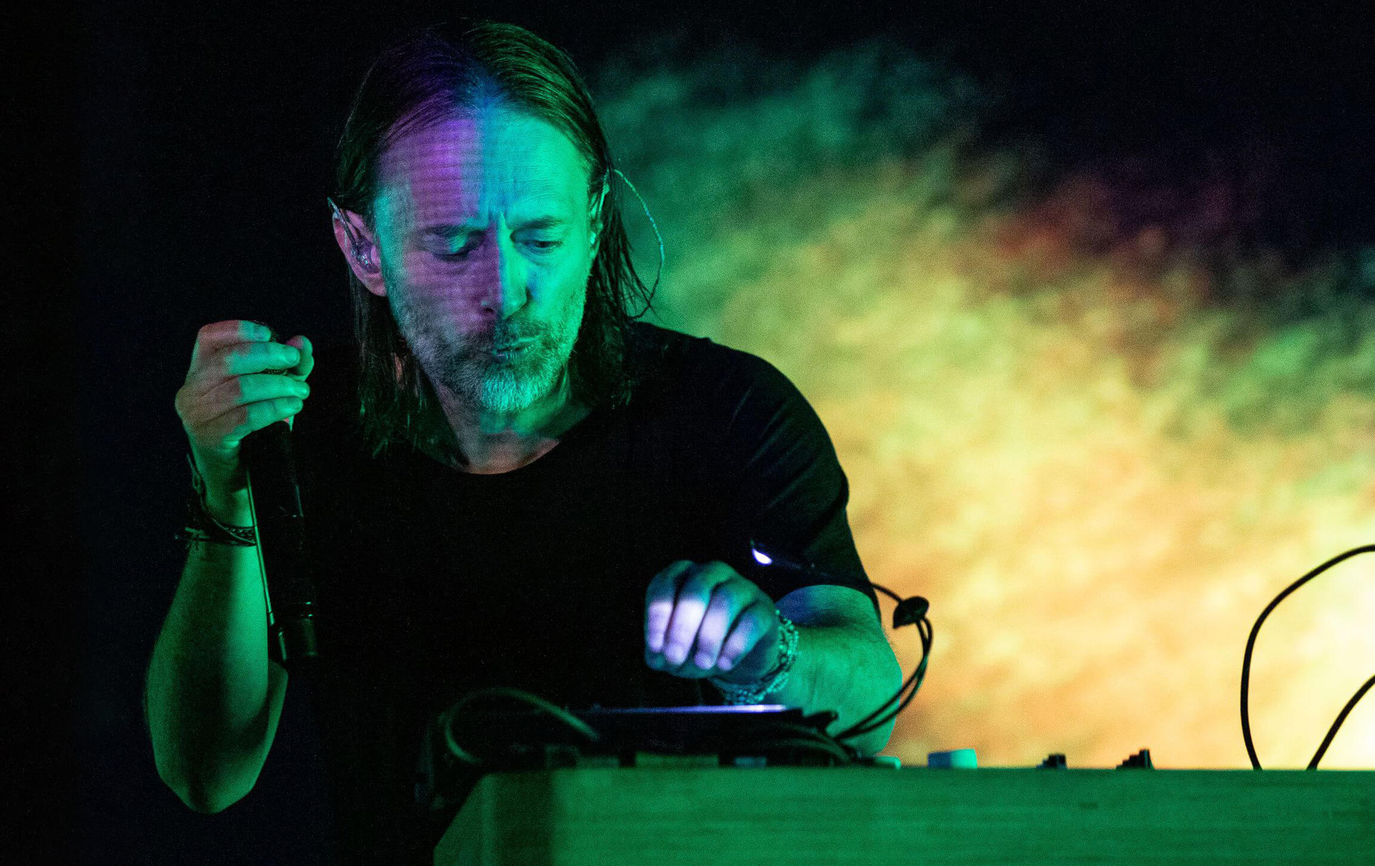
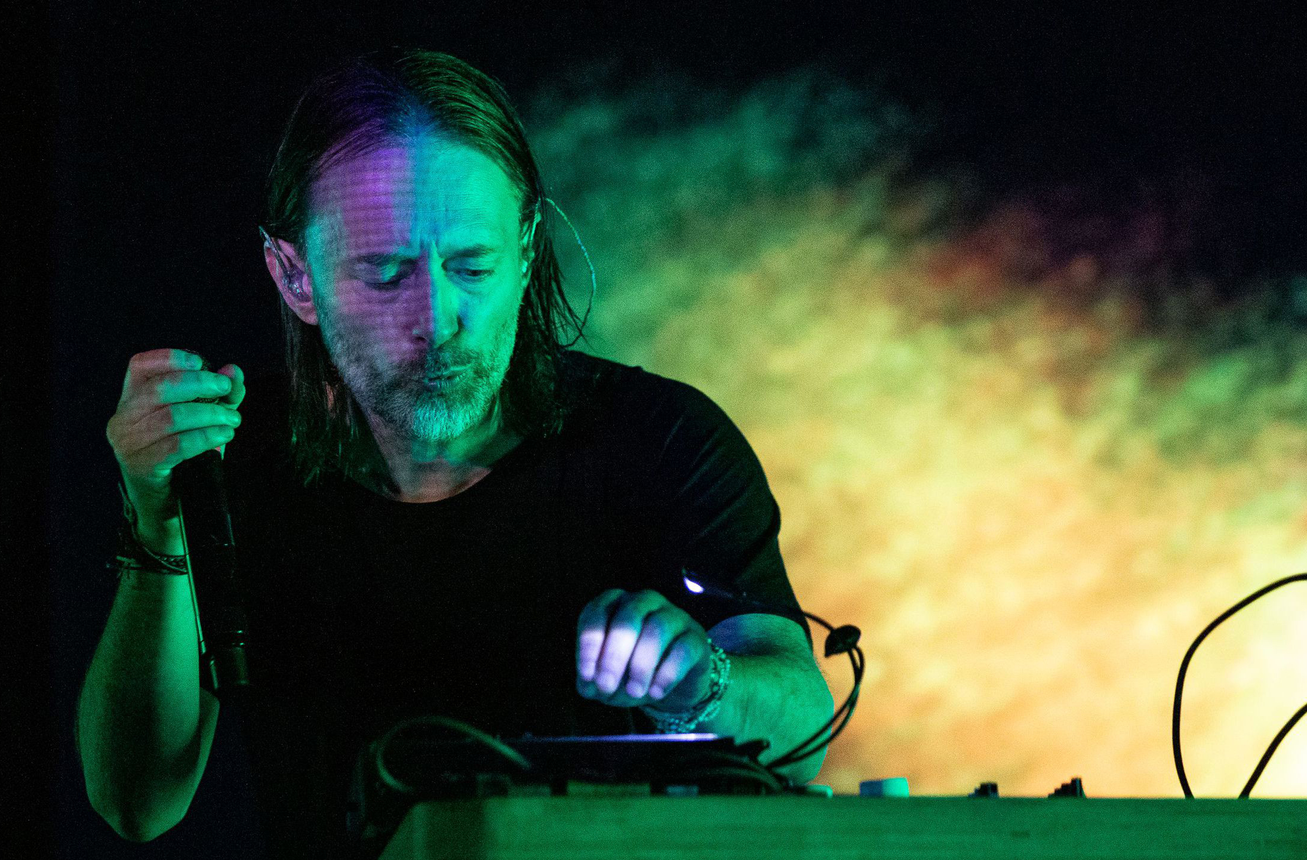
Responsiveness worked

diff --git a/styles/global.css b/styles/global.css
@@ -18,7 +18,6 @@ body {
    );
    background-repeat: no-repeat;
    background-attachment: fixed;
-   background-size: cover;
 }
 
 a {
@@ -183,6 +182,7 @@ a:hover {
 .carousel {
    width: 100%;
    margin-top: 24vh;
+   /* margin-bottom: 12rem; */
 }
 
 .carousel__grid {
@@ -282,9 +282,10 @@ a:hover {
 .footer {
    /* display: flex; */
    position: absolute;
-   bottom: 1rem;
+   /* height: 3rem; */
    left: 0;
    right: 0;
+   bottom: 1rem;
    margin: 0 auto;
    text-align: center;
    font-size: 0.84rem;
@@ -296,15 +297,39 @@ a:hover {
    margin-right: 1rem;
 }
 
+@media (max-width: 768px) {
+   .search__title {
+      margin-top: 4.8rem;
+      text-align: center;
+   }
+
+   .search__input {
+      width: 90%;
+   }
+
+   .search__input {
+      height: 2.1rem;
+   }
+
+   .footer {
+      bottom: -4.2rem;
+      padding-bottom: 1rem;
+      font-size: 0.6rem;
+   }
+}
+
 /* Log In */
 
 .body--background {
    background-image: radial-gradient(
          circle farthest-corner at 10% 20%,
-         rgba(0, 152, 155, 0.3) 0.1%,
-         rgba(0, 94, 120, 0.3) 94.2%
+         rgba(57, 160, 161, 0.72) 0.1%,
+         rgba(0, 94, 120, 0.84) 94.2%
       ),
       url(../images/musician.jpg);
+   background-color: unset;
+   background-size: cover;
+   background-position: center left;
    /* filter: blur(4px); */
 }
 
@@ -354,6 +379,7 @@ a:hover {
    border-radius: 5.6rem;
    background-color: unset;
    cursor: pointer;
+   letter-spacing: 0.1rem;
 }
 
 .login__keep-signed {
@@ -433,5 +459,22 @@ a:hover {
 
 .login a {
    text-decoration: none;
+}
+
+@media screen and (max-width: 1024px) {
+   .body--background {
+      background-position: 21%;
+   }
+
+   .login {
+      width: 72%;
+      margin: 0 auto;
+   }
+}
+
+@media screen and (max-width: 1440px) and (min-width: 768px) {
+   .login {
+      width: 30%;
+   }
 }
 /* /Log In */ ;

diff --git a/index.html b/index.html
@@ -122,6 +122,8 @@
       </section>
    </section>
    <footer class="footer">
+      <a href="">About us</a>
+
       <a href="">Terms of Service</a>
       <a href="">Privacity</a>
       <a href="">FAQ</a>
